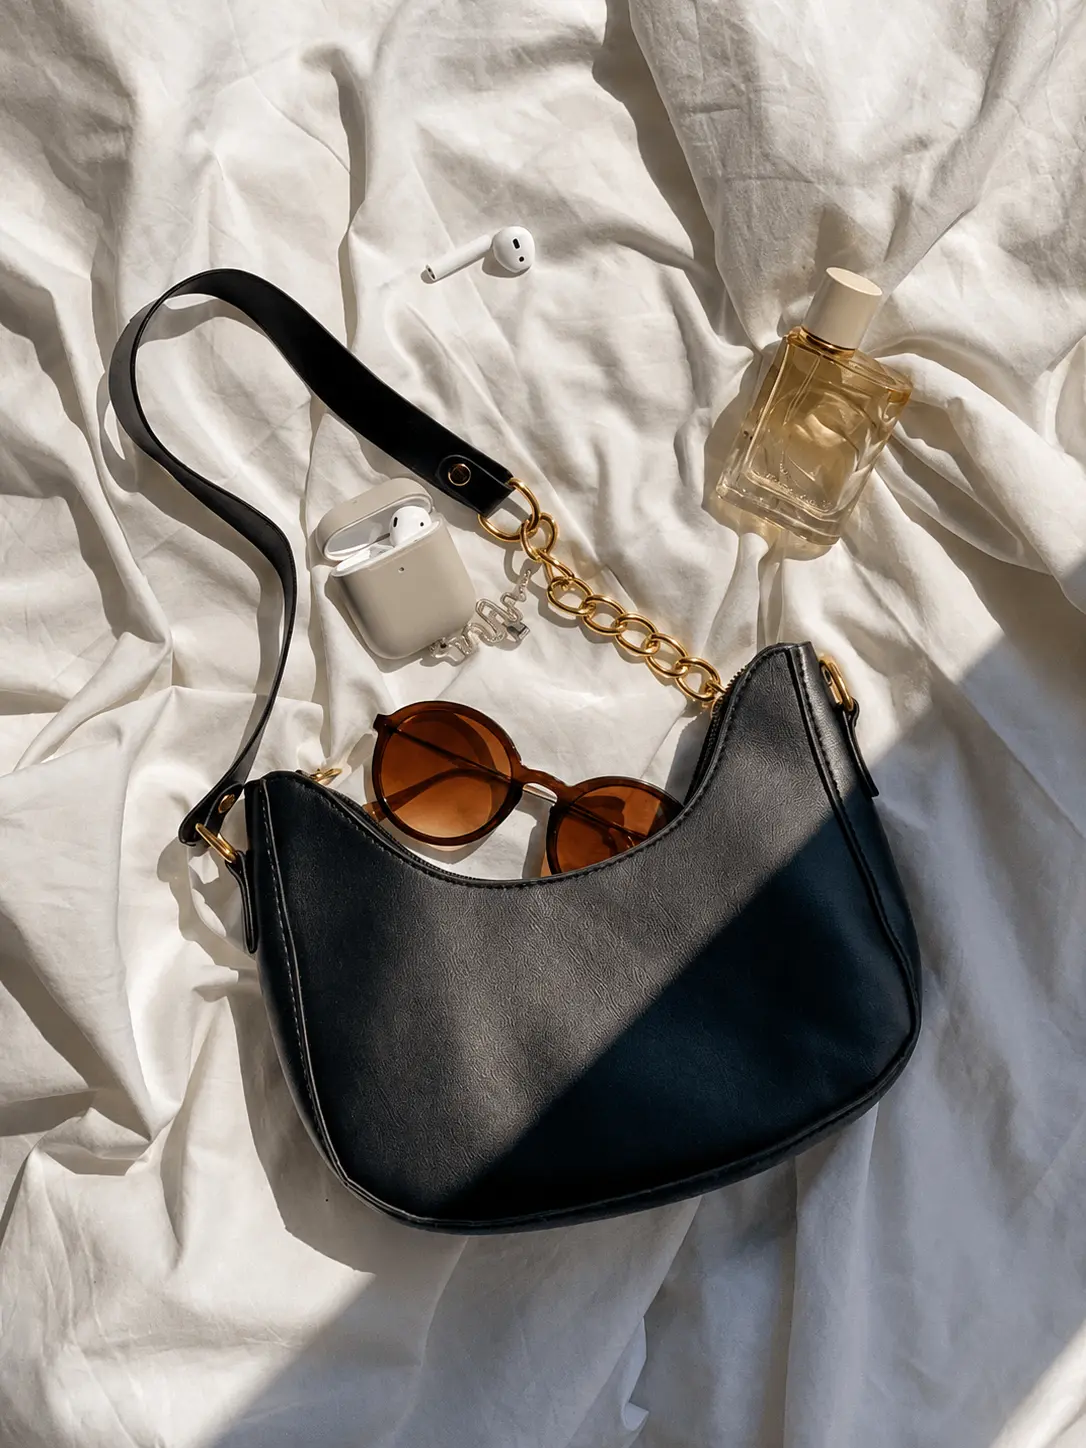
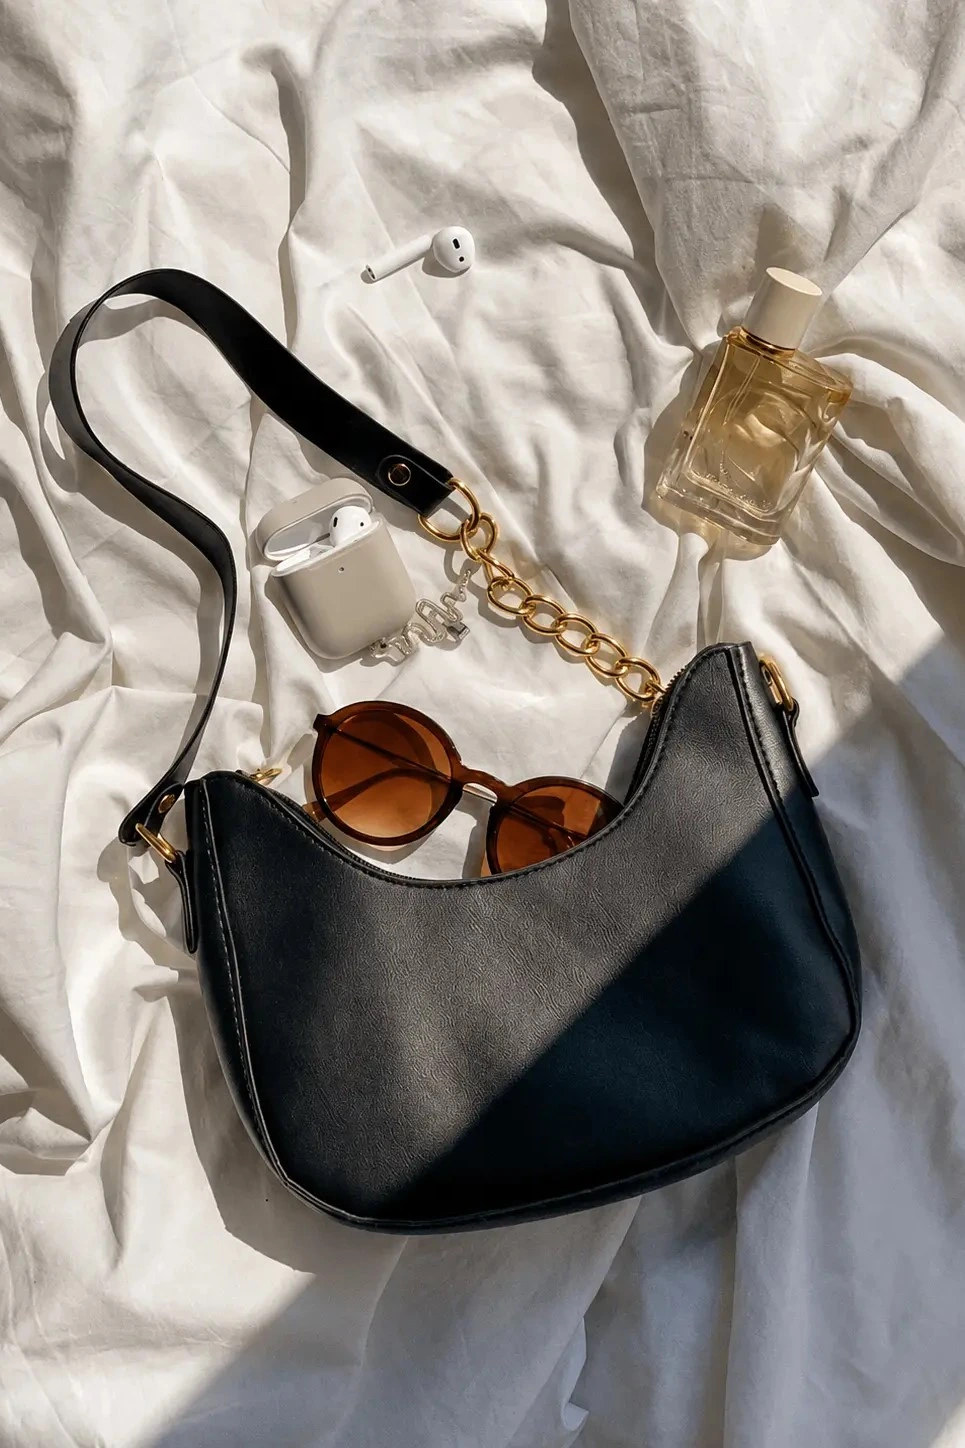
feat: add new collections pants & new product

diff --git a/index.html b/index.html
@@ -177,6 +177,19 @@ Explore Collections →
         </div>
 
 
+        <div class="fashion-card">
+            <div class="card-image">
+                <img src="assets/images/collection/thumbnail/pants.webp" alt="Pants">
+            </div>
+            <h3>Pants Collection</h3>
+            <p class="card-desc">Discover stylish and comfortable pants designed for your everyday look.</p>
+            <p class="product-total" data-category="pants"></p>
+            <a href="collection.html?category=pants">
+            Explore Pants →
+            </a>
+        </div>
+
+
     </div>
 
 </section>
